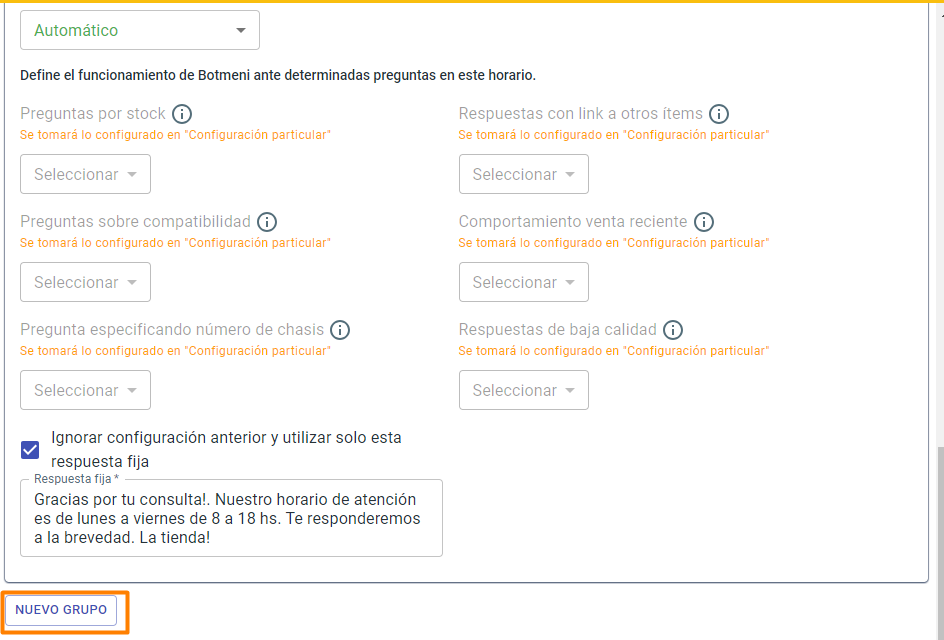
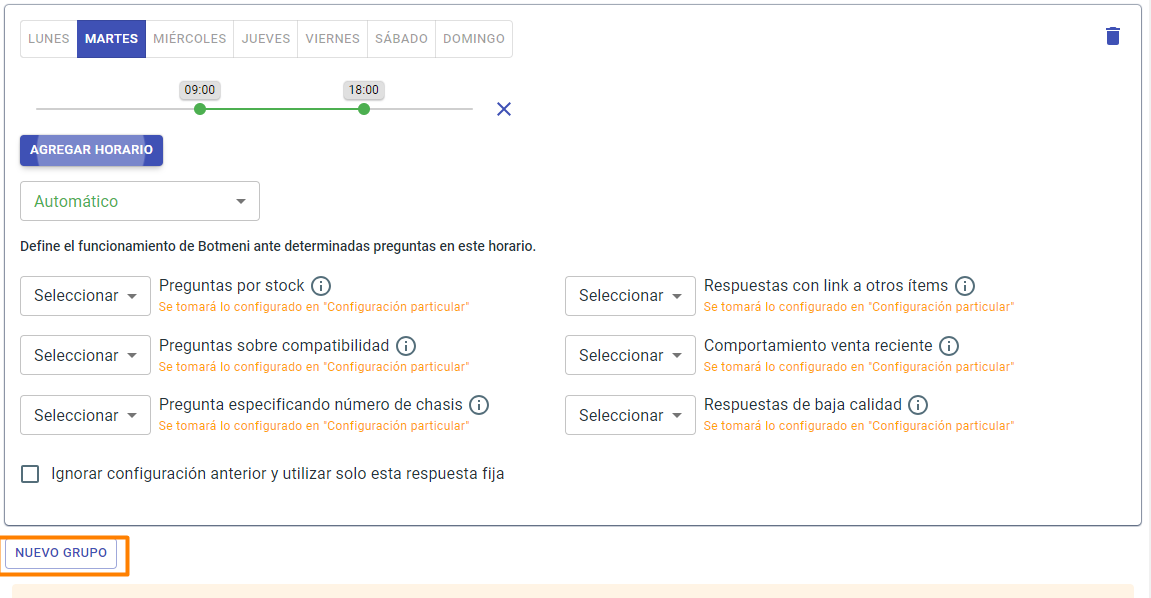
2 10 2

Changed region(s): [[0.0, 0.0, 1.0, 1.0], [0.4915, 0.4214, 0.8909, 0.7224], [0.4915, 0.3311, 0.8294, 0.3913]]

diff --git a/content/docs/Personaliza_tu_cuenta_de_botmeni/Configuración_comportamiento_respuesta/Horarios_solo_analizar.md b/content/docs/Personaliza_tu_cuenta_de_botmeni/Configuración_comportamiento_respuesta/Horarios_solo_analizar.md
@@ -11,7 +11,7 @@ toc: true
 ---
 ### Establecer Horario
 
-En la sección Horario, puedes configurar el comporatmiento de respuesta para un dado horario. Esta configuración tiene prioridad sobre la de productos,categorías y vertical de negocio que hayas definido.
+En la sección Horario, puedes configurar el comportamiento de respuesta para un dado horario. Esta configuración tiene prioridad sobre la de productos, categorías y vertical de negocio que hayas definido.
 Para personalizar los horarios:
 1. Inicia sesión con un usuario con tipo de rol ADMINISTRADOR, en nuestra página de login <https://prod.botmeni.com/login>.
 2. Haz clic en CONFIGURACIÓN.
@@ -22,7 +22,7 @@ Para personalizar los horarios:
 {{< figure width="700px" height="500px" src="/images/general/horario2.png" >}}
 5. Presiona el botón Agregar Horario
 {{< figure width="700px" height="500px" src="/images/general/horario3.png" >}}
-6. Establecer las horas, deslizando los círculos hasta llegar al punto deseado.
+6. Establece las horas, deslizando los círculos hasta llegar al punto deseado.
 {{< figure width="700px" height="500px" src="/images/general/horario4.png" >}}
 7. Si necesitas agregar otra franja horaria para los mismos días, presiona nuevamente el botón AGREGAR HORARIO.
 {{< figure width="700px" height="500px" src="/images/general/horario5.png" >}}
@@ -71,27 +71,32 @@ Para establecer los días no laborables:
 
 Dentro de nuestra plataforma es posible establecer una Respuesta automática fija, que será enviada como respuesta ante determinadas situaciones, para un determinado horario.<br></br>
 La misma puede establecerse para todas las preguntas que ingresen en una franja horaria, o sólo para un tipo particular de pregunta o respuesta.<br></br>
-Para utilizar la Respuesta Automática fija debes tener configurado al menos un horario en la sección Horario, siguiendo los pasos 1 a 9 detallados en la sección [Establecer Horario](../../Personaliza_tu_cuenta_de_botmeni/Configuración_comportamiento_respuesta/Horarios_solo_analizar.md)<br></br>
+Para utilizar la Respuesta Automática fija debes tener configurado al menos un horario en la sección Horario, siguiendo los pasos 1 a 8 detallados en la sección [Establecer Horario](../../Personaliza_tu_cuenta_de_botmeni/Configuración_comportamiento_respuesta/Horarios_solo_analizar.md)<br></br>
 
-Para establecer la respuesta automática fija, luego de que has configurado el día y las horas:
-1. Selecciona el modo de respuesta en Automático:
+Para establecer la respuesta automática fija, luego de que ya has configurado el horario:
+1. Selecciona el tipo de comportamiento general que deseas para el horario, puede ser Automático o Solo analizar.
 {{< figure width="700px" height="500px" src="/images/general/horario10.png" >}}
-2. selecciona el check box: Ignorar configuración anterior y utilizar solo esta respuesta fija.
+2. Selecciona el check box: Ignorar configuración anterior y utilizar solo esta respuesta fija.
 {{< figure width="700px" height="500px" src="/images/general/horario12.png" >}}
-3. En el campo Respuesta fija podrás definir la respuesta que enviará Botmeni si el comportamiento para el horario definido en el paso 9 es automático.
+3. En el campo Respuesta fija ingresa la respuesta que deseas que se envíe.
 {{< figure width="700px" height="500px" src="/images/general/horario13.png" >}}
-4. A continuación se muestra un ejemplo de una configuración de Respuesta automática fija.
+4. A continuación, se muestra un ejemplo de una configuración de Respuesta automática fija.
 {{< figure width="700px" height="500px" src="/images/general/horario14.png" >}}
 <br></br>
 Si lo que deseas es establecer una respuesta automática fija, para un determinado horario, y sólo para preguntas o respuestas con una característica en particular:
-1. Configura el horario en la sección Horario, siguiendo los pasos 1 a 9 detallados en la sección [Establecer Horario](../../Personaliza_tu_cuenta_de_botmeni/Configuración_comportamiento_respuesta/Horarios_solo_analizar.md)
+1. Configura el horario en la sección Horario, siguiendo los pasos 1 a 8 detallados en la sección [Establecer Horario](../../Personaliza_tu_cuenta_de_botmeni/Configuración_comportamiento_respuesta/Horarios_solo_analizar.md)
+
 {{< figure width="700px" height="500px" src="/images/general/horario16.png" >}}
+
 2. Selecciona el tipo de comportamiento general que deseas para el horario, puede ser Automático o Solo analizar.
 {{< figure width="700px" height="500px" src="/images/general/horario17.png" >}}
+
 3. Despliega las opciones de comportamiento presionando sobre el ícono triángulo invertido, en el tipo de pregunta o respuesta que desesas configurar.
 {{< figure width="700px" height="500px" src="/images/general/horario18.png" >}}
+
 4. Selecciona Respuesta fija. Por ejemplo, en la imagen siguiente se configura Respuesta fija para las preguntas que ingresen en el horario definido y que sean del tipo Preguntas por stock.
 {{< figure width="700px" height="500px" src="/images/general/horario19.png" >}}
+
 5. Ingresa el mensaje que deseas se envíe como respuesta automática.
 {{< figure width="700px" height="500px" src="/images/general/horario20.png" >}}
 

diff --git a/content/docs/administra_tu_cuenta/Usuarios/Actualizar_usuarios.md b/content/docs/administra_tu_cuenta/Usuarios/Actualizar_usuarios.md
@@ -13,7 +13,7 @@ Para realizar actualizaciones en los usuarios asociados a la cuenta de Mercado l
 1. [Inicia sesión](../Tu_Perfil/Iniciar_sesión.md) como usuario principal.
 2. Presiona el ícono triángulo invertido ubicado a la derecha del nombre de usuario. Se desplegará el menú que se muestra en la imagen. Selecciona Ver perfil.
 {{< figure width="420px" height="300px" src="/images/general/ver_pefil.png" >}}
-3. Presiona el botón VER DETALLES ubicado a la derecha de la suscripción con estado Válida.
+3. Presiona sobre la suscripción con estado Válida.
 {{< figure width="700px" height="500px" src="/images/general/ver_detalles.png" >}}
 4. Presiona el botón ADMINISTRAR USUARIOS ubicado en la parte inferior de la pantalla.
 {{< figure width="700px" height="500px" src="/images/general/administrar_usuarios.png" >}}

diff --git a/content/docs/administra_tu_cuenta/Usuarios/Conocer_los_usuarios_de_mi_cuenta.md b/content/docs/administra_tu_cuenta/Usuarios/Conocer_los_usuarios_de_mi_cuenta.md
@@ -14,7 +14,7 @@ Para conocer los usuarios asociados a la cuenta:
 1. Inicia sesión como usuario principal en nuestra página de login <https://prod.botmeni.com/login>.
 2. Presiona el ícono triángulo invertido ubicado a la derecha del nombre de usuario. Se desplegará el menú que se muestra en la imagen. Selecciona Ver perfil.
 {{< figure width="420px" height="300px" src="/images/general/ver_pefil.png" >}}
-3. Presiona el botón VER DETALLES ubicado a la derecha de la suscripción con estado Válida.
+3. Presiona sobre la suscripción con estado Válida.
 {{< figure width="700px" height="500px" src="/images/general/ver_detalles.png" >}}
 5. Presiona la opción Usuarios
 {{< figure width="700px" height="500px" src="/images/general/ver_usuarios.png" >}}
